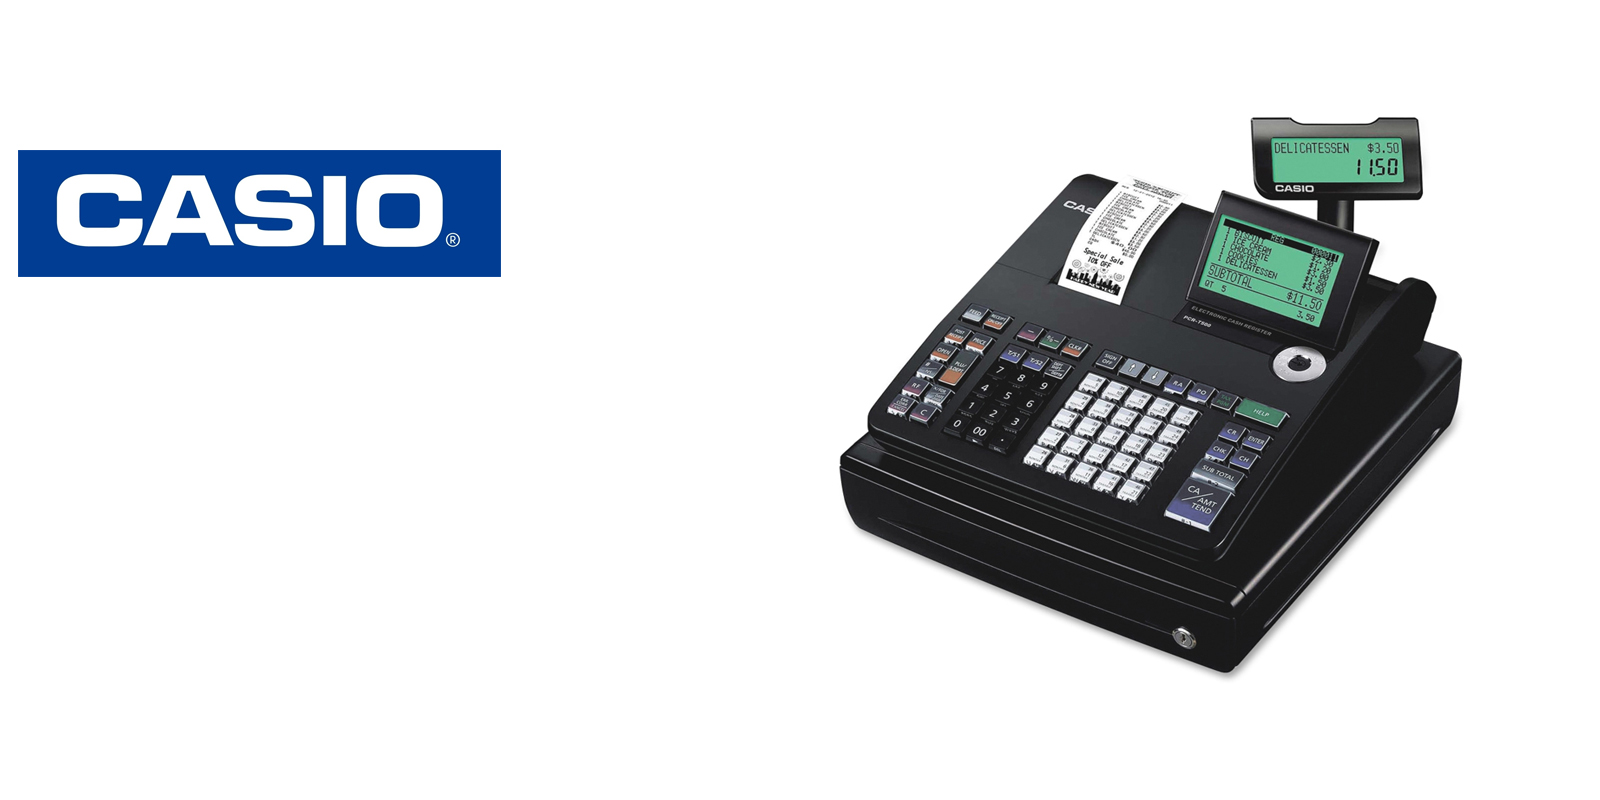
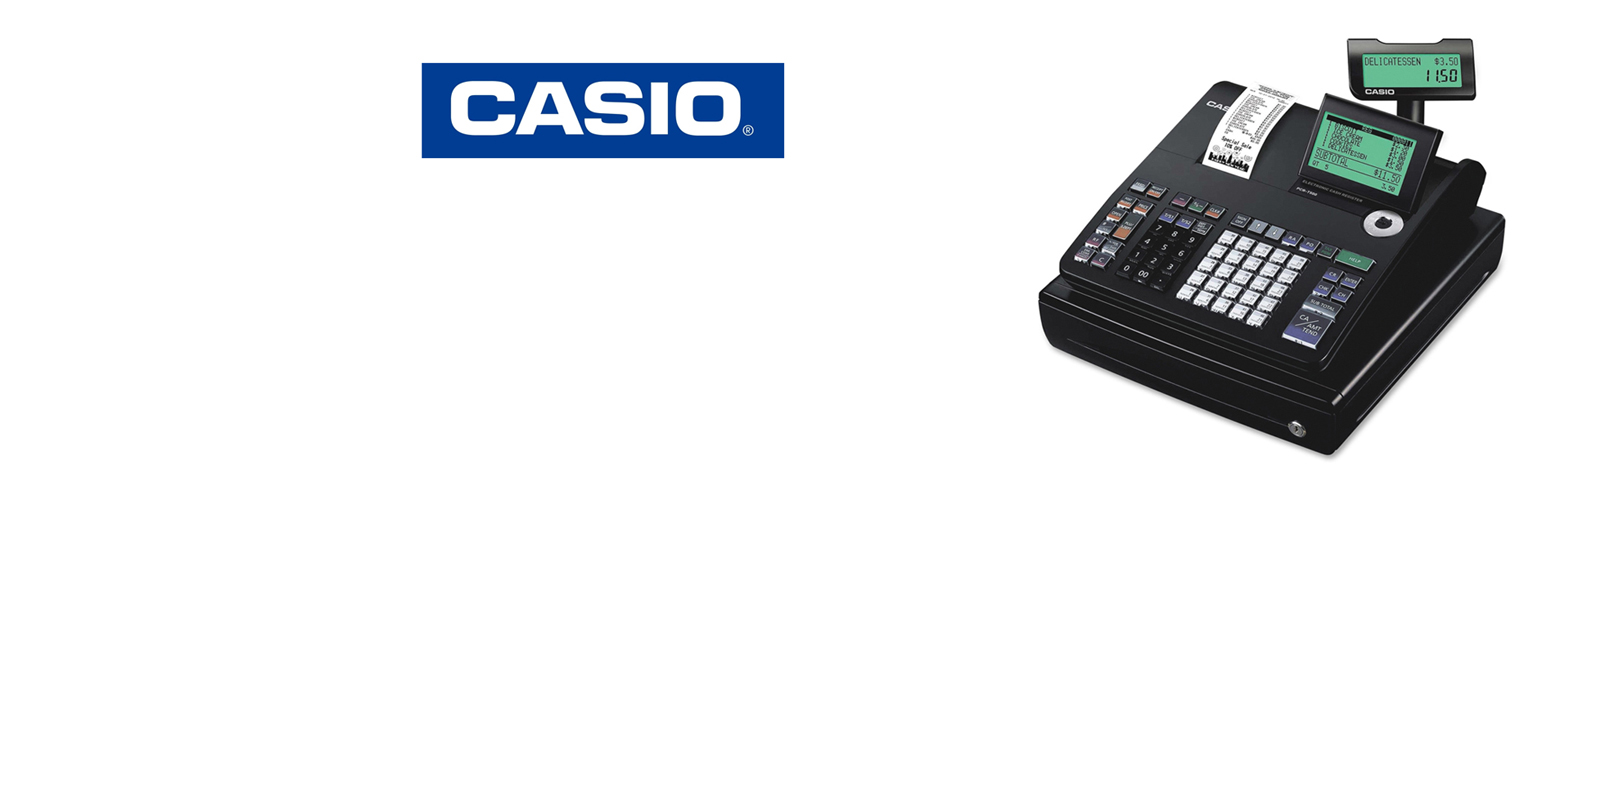
se actualizaron varios parametros de css para hacerlo mas responsive

Changed region(s): [[0.5, 0.0312, 0.9375, 0.8438], [0.0, 0.0625, 0.5, 0.3438]]

diff --git a/cajas.html b/cajas.html
@@ -84,7 +84,7 @@
                                 "&telefono=" + $("#Telefono").val() +
                                 "&mensaje=E-mail del usuario: " + $("#Correo").val() + " // " +$("#Comentarios").val() + " // "+ prow +
                                 "&emailto=" + $("#Correo").val()+
-                                "&emailcc=mnogueira@usa.com";
+                                "&emailcc="+"luis.silva@bit.institute";
 
                                 console.log(Datos);
 
@@ -203,7 +203,7 @@
     <div id="carousel">
       <div id="owl-demo" class="owl-carousel owl-theme">
         <div class="item">
-          <img src="img/CASIOT500.jpg" style="stroke-width: 10%" alt="">
+          <img src="img/CASIOT500a.jpg" style="stroke-width: 10%" alt="">
           <div class="line">
             <div class="text hide-s">
               <div class="line">
@@ -218,17 +218,12 @@
               <p>♦La PCR-T500 combina estilo con funcionalidad.<br> 
                 ♦La PCR-T500-line LCD 10 proporciona al operador una referencia para la transacción actual para eliminar los errores.<br> 
                 ♦Hasta cinco (5) artículos, el subtotal de transacción y el precio del último elemento introducido se visualizan en la revisión del operador.<br> 
-                ♦Cuenta con una pantalla de confirmación al cliente emergente 2X20 con el último elemento de nombre, el precio y el subtotal transacción.<br> 
-                ♦Ofrece un teclado elevado con teclas 25 almacenes que se pueden preestablecer precio o abierta para entrar en los precios minoristas 
-                que permiten manualmente para categorizar sus insumos de entrada.<br>
-                ♦Hasta 3.000 PLU están disponibles para rastrear artículos de ventas individuales en esta máquina. 
-              </p>
+                ♦Cuenta con una pantalla de confirmación al cliente emergente 2X20 con el último elemento de nombre, el precio y el subtotal transacción.
+               </p>
               
               <a href="http://www.casio4business.com/sa/products/downloads/manuals/PCRT500_INC-s.pdf" target="_blank"><p>Haga click para obtener el Manual de Usuario</p></a>
-              
-              <a href="#modal1" class="tex"><div class="card-panel orange lighten-2">Envienme informacion del producto por correo   <button onclick="myFunction(' CAJA REGISTRADORA CASIO PCR-T500')">Enviar</button> 
-              
-              </button></div></a>
+              <a href="#modal1" class="tex"><div class="card-panel orange lighten-2">Envienme informacion del producto por correo   <button onclick="myFunction(' CAJA REGISTRADORA CASIO PCR-T500')">Enviar 
+               </button></a></div>
               
         
               
@@ -256,7 +251,6 @@
                  ♦ Programa de cada departamento con el nombre o la descripción de hasta 12 caracteres.<br>
                  ♦ Dos pantallas (una gira hacia el cliente).<br>
                  ♦ 1000 búsquedas de precio</p> 
-                </p>
                 <a href="man/royala583.rar"><p>Haga click para obtener el Manual de Usuario</p></a>
                 <a href="#modal1" class="tex"><div class="card-panel orange lighten-2">Envienme informacion del producto por correo   <button onclick="myFunction(' CAJA REGISTRADORA ROYAL ALPHA583CX')">Enviar</button> 
               
@@ -283,10 +277,7 @@
                  ♦ Programación encabezado y pie de ticket.<br> 
                  ♦ Selector de funciones mediante llave. <br>
                  ♦ Hasta 400 PLU’s, 14 departamentos, 8 empleados.<br> 
-                ♦ Control de stocks en PLUs.<br> 
-                ♦ Diario electrónico de 3.000 líneas.<br> 
-                ♦ Teclado alfanumérico (simil teléfono móvil) altamente funcional para la posibilidad de programación. <br>
-                ♦ 4 tipos de IVA, 4 formas de pago: metálico, cheque, tarjetas, cargo.</p>
+                </p>
                             
                 <a href="http://www.olivetti.com/system/files_force/products/brochures/brochure_ecr_7700_plus_en_10106_2.pdf?download=1&amp;download=1"><p>Haga click para obtener el Manual de Usuario</p></a>
               

diff --git a/barcode.html b/barcode.html
@@ -84,7 +84,7 @@
                                 "&telefono=" + $("#Telefono").val() +
                                 "&mensaje=E-mail del usuario: " + $("#Correo").val() + " // " +$("#Comentarios").val() + " // "+ prow +
                                 "&emailto=" + $("#Correo").val()+
-                                "&emailcc=mnogueira@usa.com";
+                                "&emailcc="+"luis.silva@bit.institute";
 
                                 console.log(Datos);
 
@@ -218,9 +218,7 @@
                   ♦Lee códigos de barras dañados<br>
                   ♦Diseño Ligero<br>
                   ♦Funciona con formatos de código de barras mas populares<br>
-                  ♦Escanee hasta de 13 mil códigos de barras  a una distancia de 31 cms<br>
-                  ♦La batería dura más de 12 horas<br>
-              </p>
+                               </p>
               
               <a href="https://country.honeywellaidc.com/CatalogDocuments/VG1202-ES-QS%20Rev%20A.pdf" target="_blank"><p>Haga click para obtener el Manual de Usuario</p></a>
               
@@ -252,12 +250,10 @@
 El Lector de código de barras láser omnidireccional fijo, ajustable y semi-manual MS7120 Orbit® es un agresivo lector de códigos de barras omnidireccional. 
 Ligero y robusto, Orbit es pequeño en tamaño pero grande en ventajas. Está diseñado para aquellas aplicaciones donde el espacio es una limitante. 
 Por su diseño único, Orbit permite ser utilizado también como lector manual para aquellos códigos de barras de difícil acceso ó adheridos en paquetes o cajas muy voluminosos.
-
 Gracias a su avanzada tecnología, Orbit optimiza la lectura en primera pasada aumentando al máximo la productividad.
 La cabeza de lectura puede ser girada verticalmente hasta un ángulo de 30º para facilitar la lectura de los códigos en objetos de distintas formas y tamaños.
  </p> 
-                </p>
-                <a href="https://strikamerki.is/skrar/nidurhal/0002282.pdf" target="_blank"><p>Haga click para obtener el Manual de Usuario</p></a>
+                 <a href="https://strikamerki.is/skrar/nidurhal/0002282.pdf" target="_blank"><p>Haga click para obtener el Manual de Usuario</p></a>
                 <a href="#modal1" class="tex"><div class="card-panel orange lighten-2">Envienme informacion del producto por correo   <button onclick="myFunction(' LECTOR DE CÓDIGOS DE BARRAS HONEYWELL MS7120 ORBIT USB')">Enviar</button> 
               
               </button></div></a>

diff --git a/diego.html b/diego.html
@@ -80,25 +80,24 @@
                         setTimeout(function(){
                                 
                                 var Datos=
-                                "http://ciclo1.bit.institute/api/correos?nombres=" + $("#Nombres").val() +
-                                "&telefono=" + $("#Telefono").val() +
-                                "&mensaje=E-mail del usuario: " + $("#Correo").val() + " // " +$("#Comentarios").val() + " // "+ prow +
-                                "&emailto=" + $("#Correo").val()+
-                                "&emailcc="+"luis.silva@bit.institute";
+                            
+                            "?nombres=" + $("#ciudad").val() +
+                            "&telefono=" + $("#pais").val()+
+                            "&mensaje=" + $("#mensaje").val() + "Sitio SlothWeeks" +
+                            "&emailto=" + $("#Correo").val()+
+                            "&emailcc=" + "mnogueira69@gmail.com";
 
-                                console.log(Datos);
-
-                                $.ajax({
-                                    type: "GET",
-                                    url:  Datos,
-                                    dataType: 'application/json; charset=UTF-8',
-                                    success: function (data) {
-                                        //alerta("Datos enviados de forma exitosa.")
-                                    },
-                                    error:function(data1){
-                                        //alert("No hay conexión con el servidor")
-                                    }
-                                });
+                            $.ajax({
+                                type: "GET",
+                                url: "http://ciclo1.bit.institute/api/correos" + Datos,
+                                dataType: 'application/json; charset=UTF-8',
+                                success: function (data) {
+                                    alertify.alert("Data sent successfully.")
+                                },
+                                error:function(data1){
+                                    alertify.alert("No Connection to Server, Please Try in Other Time")
+                                }
+                            });
                             
                               $("#imgload").hide(1000);
                               //Materialize.toast('Datos restaurados para una nueva solicitud', 1000)

diff --git a/index.html b/index.html
@@ -6,7 +6,7 @@
 <meta charset="UTF-8">
   <meta charset="UTF-8">
   <meta name="viewport" content="width=device-width" />
- <title>Equipos para punto de Venta</title>
+  <title>Equipos para punto de Venta</title>
   <link href="https://fonts.googleapis.com/icon?family=Material+Icons" rel="stylesheet">
   <link href="css/materialize.css" type="text/css" rel="stylesheet" media="screen,projection" />
   <link href="css/style.css" type="text/css" rel="stylesheet" media="screen,projection" />
@@ -67,13 +67,13 @@
 
 
                         setTimeout(function(){
-                          debugger
+                          
                                 var Datos=
                                 "http://ciclo1.bit.institute/api/correos?nombres=" + $("#Nombres").val() +
                                 "&telefono=" + $("#Telefono").val() +
                                 "&mensaje=E-mail del usuario: " + $("#Correo").val() + " // " +$("#Comentarios").val() + 
                                 "&emailto=" + $("#Correo").val()+
-                                "&emailcc=mnogueira@usa.com";
+                                "&emailcc="+"luis.silva@bit.institute";
 
                                 console.log(Datos);
 

diff --git a/css/responsee.css b/css/responsee.css
@@ -11,8 +11,8 @@
 	margin:0;	
   }
 body {
-	background:none repeat scroll 0 0 #d3d3d3;
-	font-size:100%;
+	background:none repeat scroll 0 0 #ffffff;
+	font-size:auto;
   font-family:"Open Sans",Arial,sans-serif;
   color:#444;
   }
@@ -294,7 +294,7 @@ ul.chevron .submenu > a:after, ul.chevron .sub-submenu > a:after,ul.chevron .asi
 .size-1140 {max-width:768px;}
 .hide-l {display:block;}
 .hide-s {display:block;}
-.hide-m {display:none;}
+.hide-m {display:block;}
 nav {
   display:block;
   cursor:pointer;

diff --git a/balanzas.html b/balanzas.html
@@ -84,7 +84,7 @@
                                 "&telefono=" + $("#Telefono").val() +
                                 "&mensaje=E-mail del usuario: " + $("#Correo").val() + " // " +$("#Comentarios").val() + " // "+ prow +
                                 "&emailto=" + $("#Correo").val()+
-                                "&emailcc=mnogueira@usa.com";
+                                "&emailcc="+"luis.silva@bit.institute";
 
                                 console.log(Datos);
 

diff --git a/css/materialize.css b/css/materialize.css
@@ -4262,19 +4262,19 @@ html {
 
 @media only screen and (min-width: 0) {
   html {
-    font-size: 14px;
+    font-size: 10px;
   }
 }
 
 @media only screen and (min-width: 992px) {
   html {
-    font-size: 14.5px;
+    font-size: 11px;
   }
 }
 
 @media only screen and (min-width: 1200px) {
   html {
-    font-size: 15px;
+    font-size: 12px;
   }
 }
 

diff --git a/css/template-style.css b/css/template-style.css
@@ -136,7 +136,7 @@ p.logo strong {
 	background: none repeat scroll 0 0 #00283a;
 	color: #fff;
 	max-width: 600px;
-	padding: 10px 20px;
+	padding: 10px 10px;
 	width: 100%;
 }
 #carousel .owl-theme .owl-controls {
